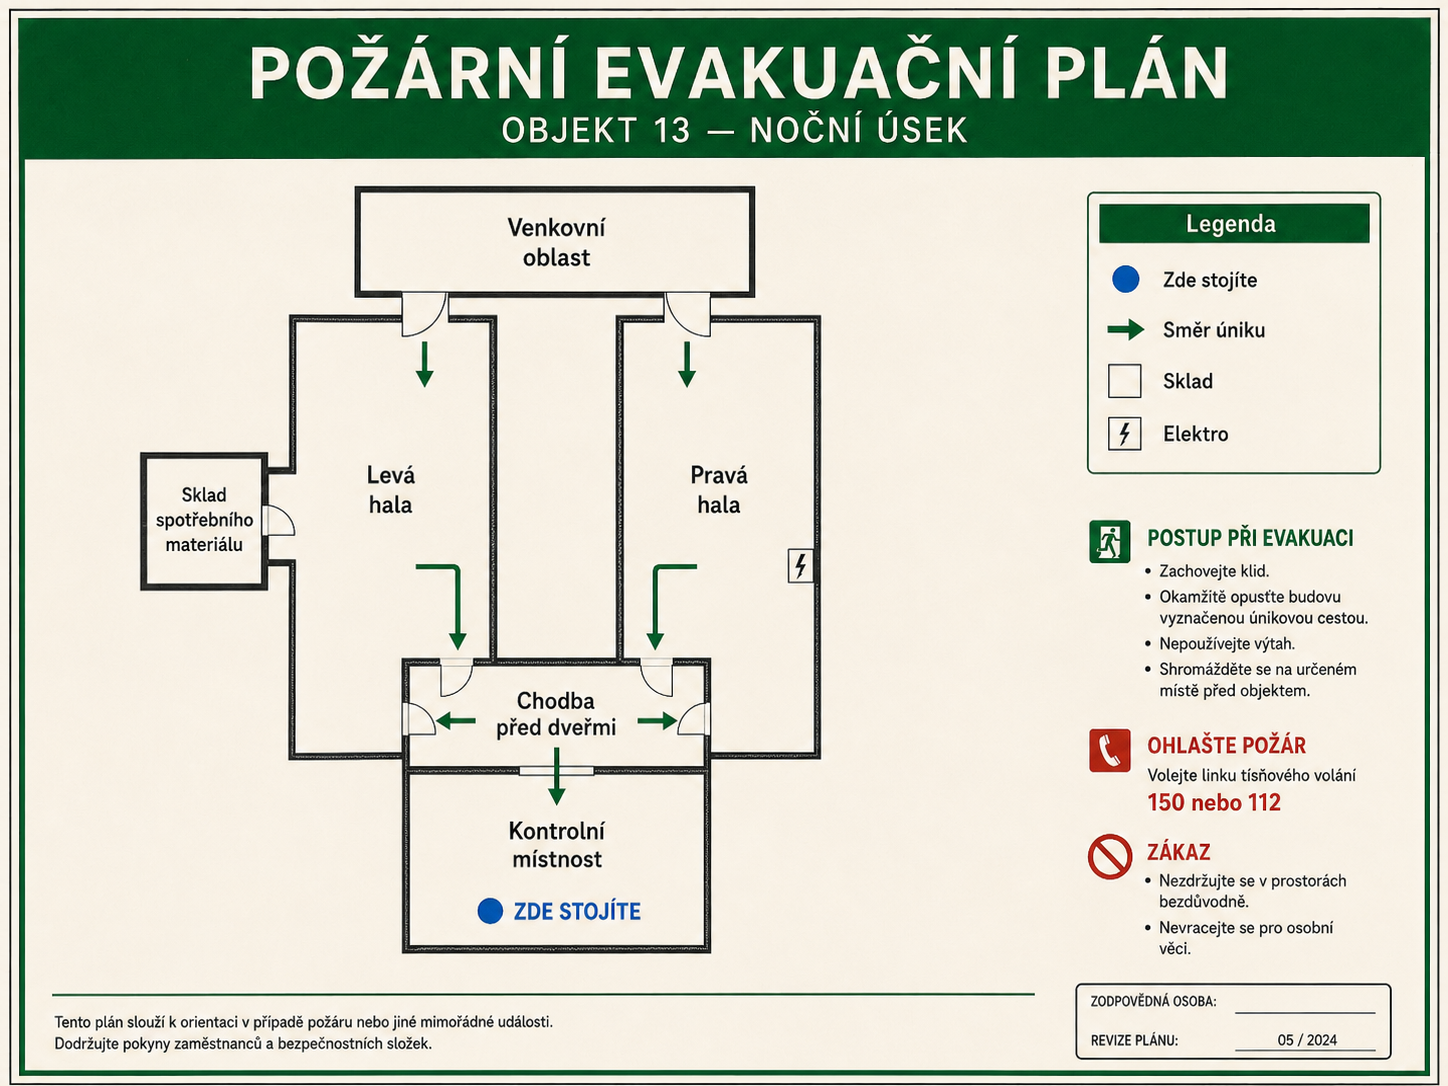
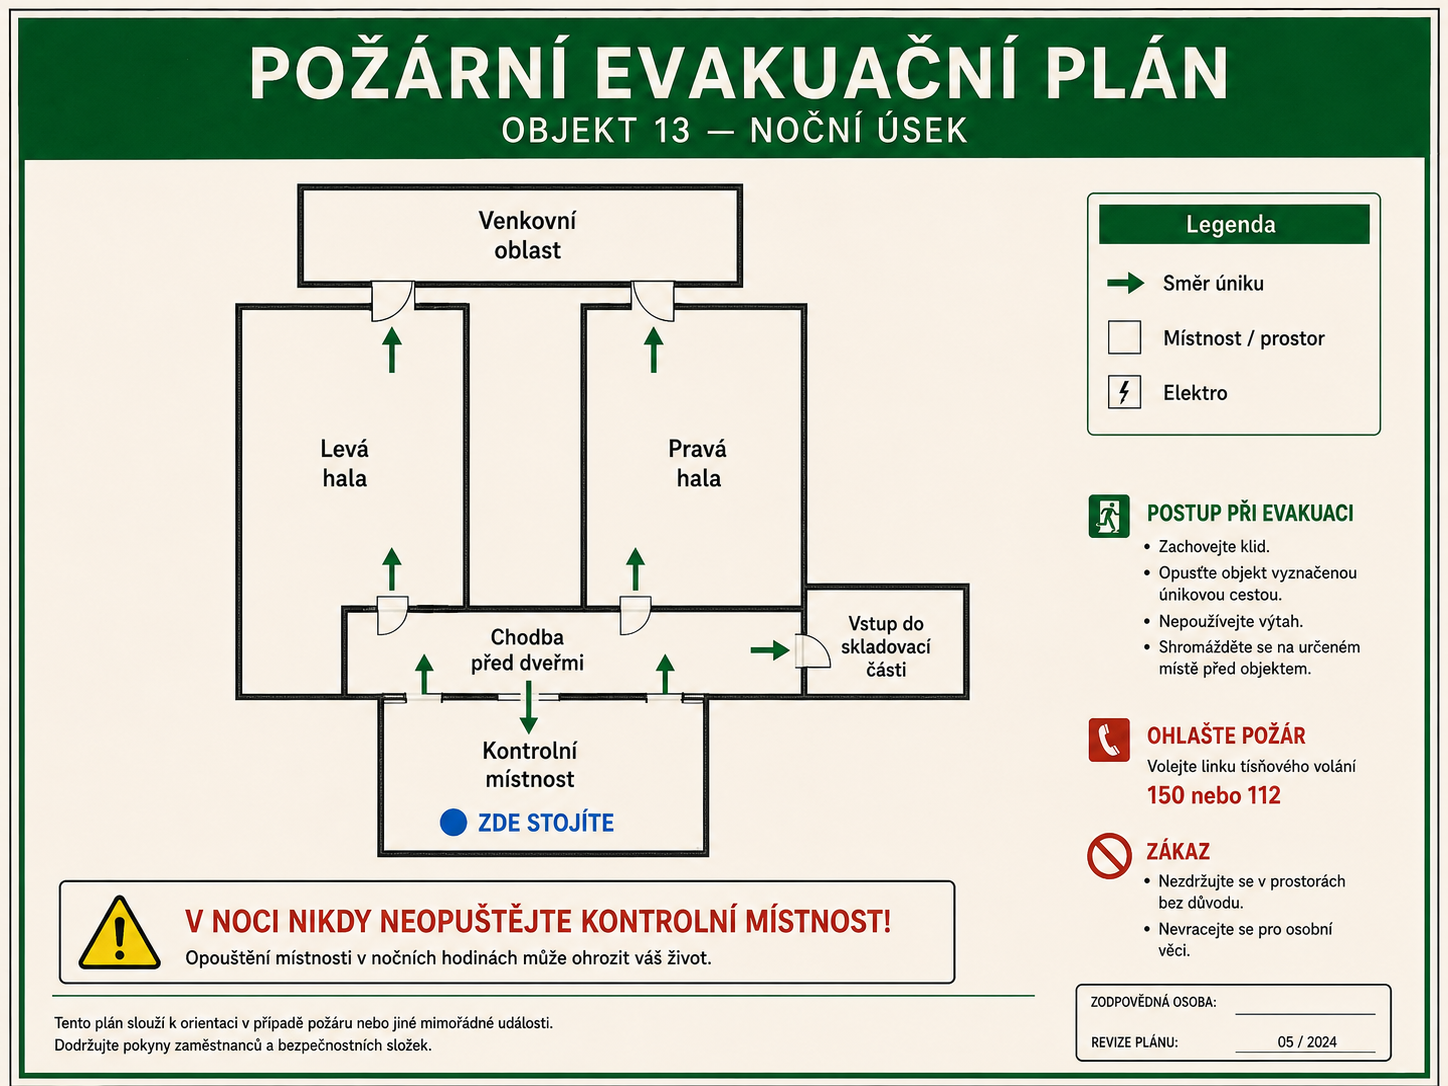
Update evacuation plan map and emergency-run button label
Replace mapa.png/.webp with the new evacuation plan artwork (converted via
cwebp -q 87). Rename the emergency-run button label to "NOUZOVÁ VÝPRAVA DO
SKLADOVACÍ ČÁSTI", split across two lines via a newline + whitespace-pre-line.

Changed region(s): [[0.0, 0.1519, 0.9945, 1.0], [0.7459, 0.1519, 0.9323, 0.6381], [0.9323, 0.395, 0.9634, 0.4254]]

diff --git a/components/game/LeftWallView.tsx b/components/game/LeftWallView.tsx
@@ -282,7 +282,7 @@ export default function LeftWallView({
               <span className="console-icon-block" aria-hidden="true">
                 <ConsoleIcon id="warn" />
               </span>
-              <span>
+              <span className="whitespace-pre-line">
                 {emergencyRunWindupActive
                   ? COPY.game.emergencyRunHoldingLabel.replace("{seconds}", windupSeconds)
                   : hasWoundedMonsterToday

diff --git a/content/copy.ts b/content/copy.ts
@@ -230,7 +230,7 @@ export const COPY = {
     // do hlavní hry, zatím vývojářské tlačítko bez finálního artu. Text
     // záměrně ne "Jít ven" — má znít jako riskantní, nevratné rozhodnutí, ne
     // ležérní odchod.
-    startEmergencyRunLabel: "Nouzově opustit místnost",
+    startEmergencyRunLabel: "NOUZOVÁ VÝPRAVA\nDO SKLADOVACÍ ČÁSTI",
     // Nahrazuje startEmergencyRunLabel, jakmile hráč monstrum tuhle noc
     // aspoň jednou zranil brokovnicí (viz GameState.monsterHitsToday,
     // game/core/monsterEnding.ts) — hidden true ending loot smyčka, hráč už